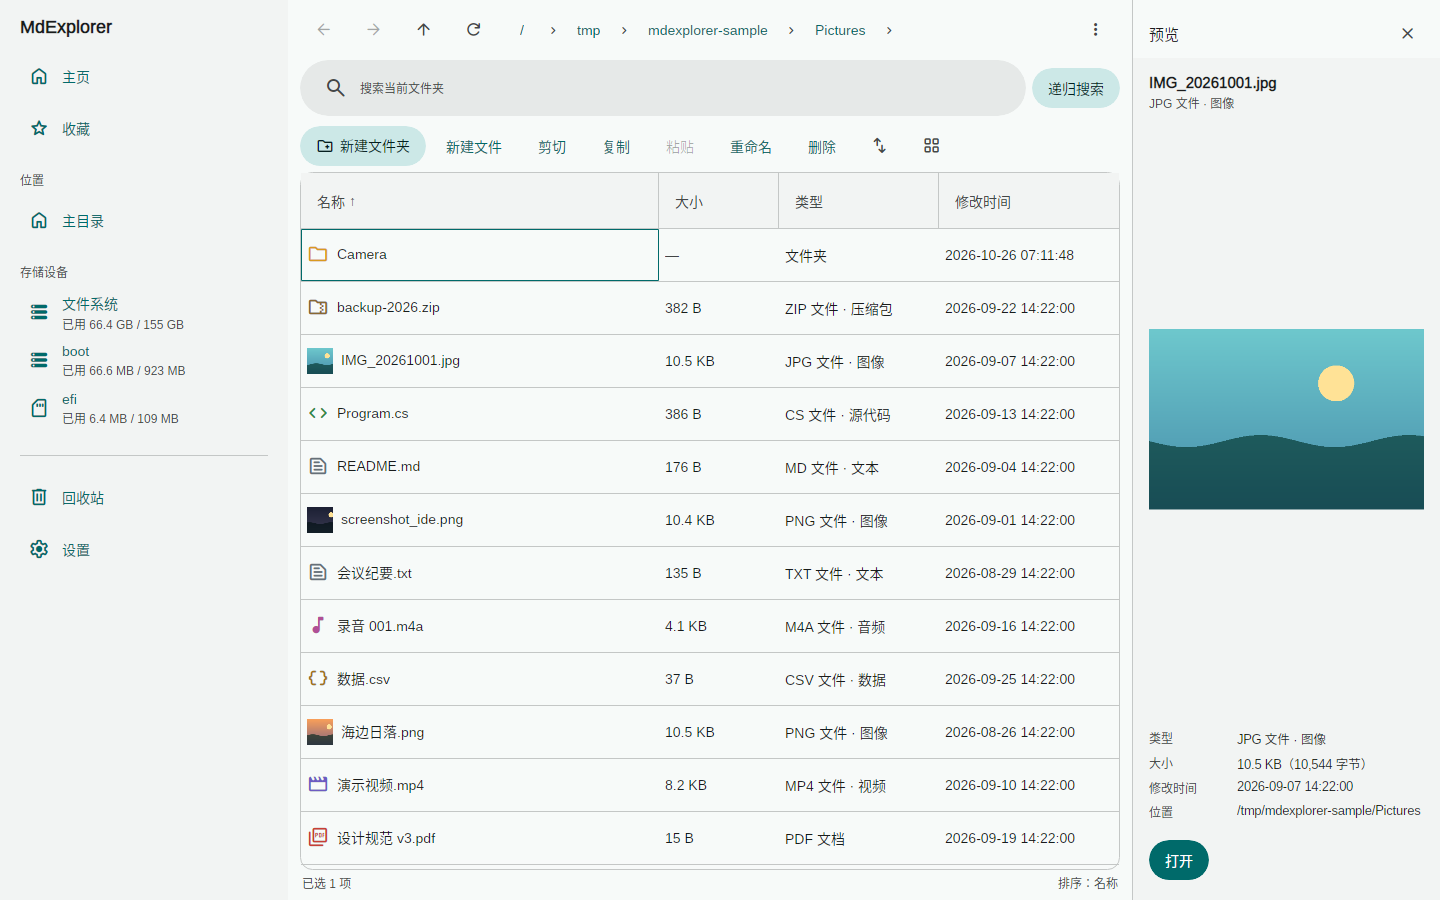
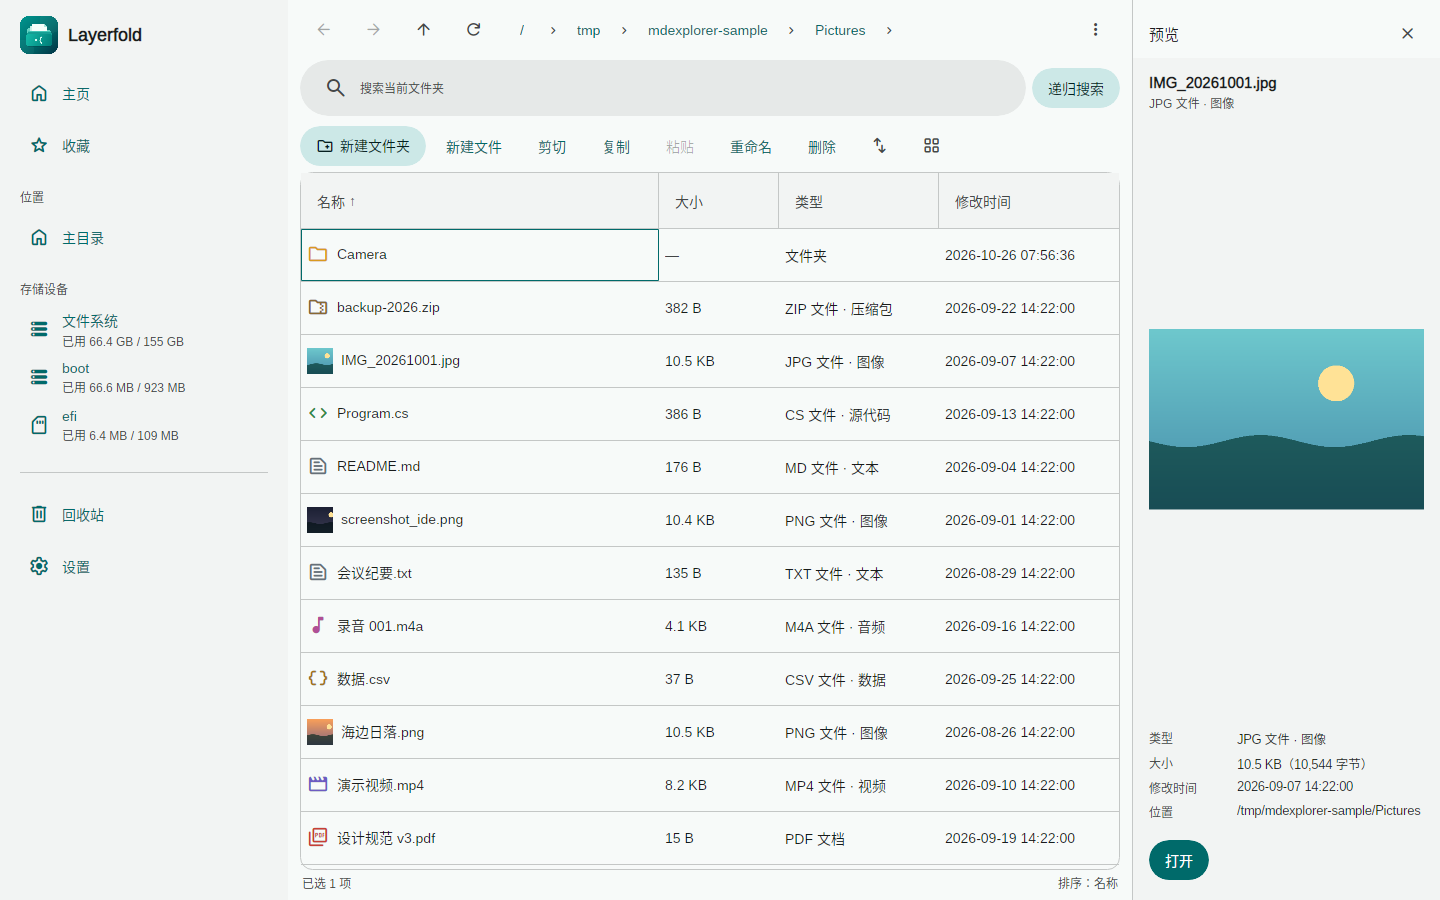
docs: v0.5 变更纪要与 Layerfold 全套截图归档

diff --git a/README.md b/README.md
@@ -6,7 +6,7 @@
 
 > **状态：v0.5**——浏览/搜索/预览（图片、文本、**Markdown 渲染、代码高亮**、ZIP 条目）/复制移动删除（含回收站语义）/ZIP/收藏/设置已可用；v0.2 新增：文件夹外部变更自动刷新、属性文件夹大小、校验和、批量重命名；**v0.3 新增：Android SAF 授权文件夹浏览**（系统选择器授权任意文件夹树，浏览/增删改/双向复制移动/图片·文本·代码·Markdown 预览与缩略图，书签跨会话恢复；真机行为待验）；**v0.4 新增：详细信息视图**（四列表格 + 列头排序，与列表/网格三态切换）；**v0.5 新增：拖放与系统剪贴板互通，并更名为 Layerfold（层夹）**（新品牌与图标见 `docs/BRAND.md`；仓库、命名空间与数据目录仍保留内部代号 MdExplorer 以兼容既有数据）；PDF 渲染、音视频播放为后续里程碑；**插件系统与本地 AI 两条新轨道已完成评估立项**（见开发文档 §16/§17、变更纪要与下表两文）。
 
-## 效果（CI 无头渲染实拍，归档于 `docs/assets/screenshots/`，含 Markdown/代码/批量重命名/详细信息视图共 15 张）
+## 效果（CI 无头渲染实拍，归档于 `docs/assets/screenshots/`，含 Markdown/代码/批量重命名/详细信息视图/拖放提示共 16 张）
 
 <img src="docs/assets/screenshots/05-large-1440x900.png" alt="Large 1440：永久抽屉 + 网格 + 预览侧栏" width="720" />
 
